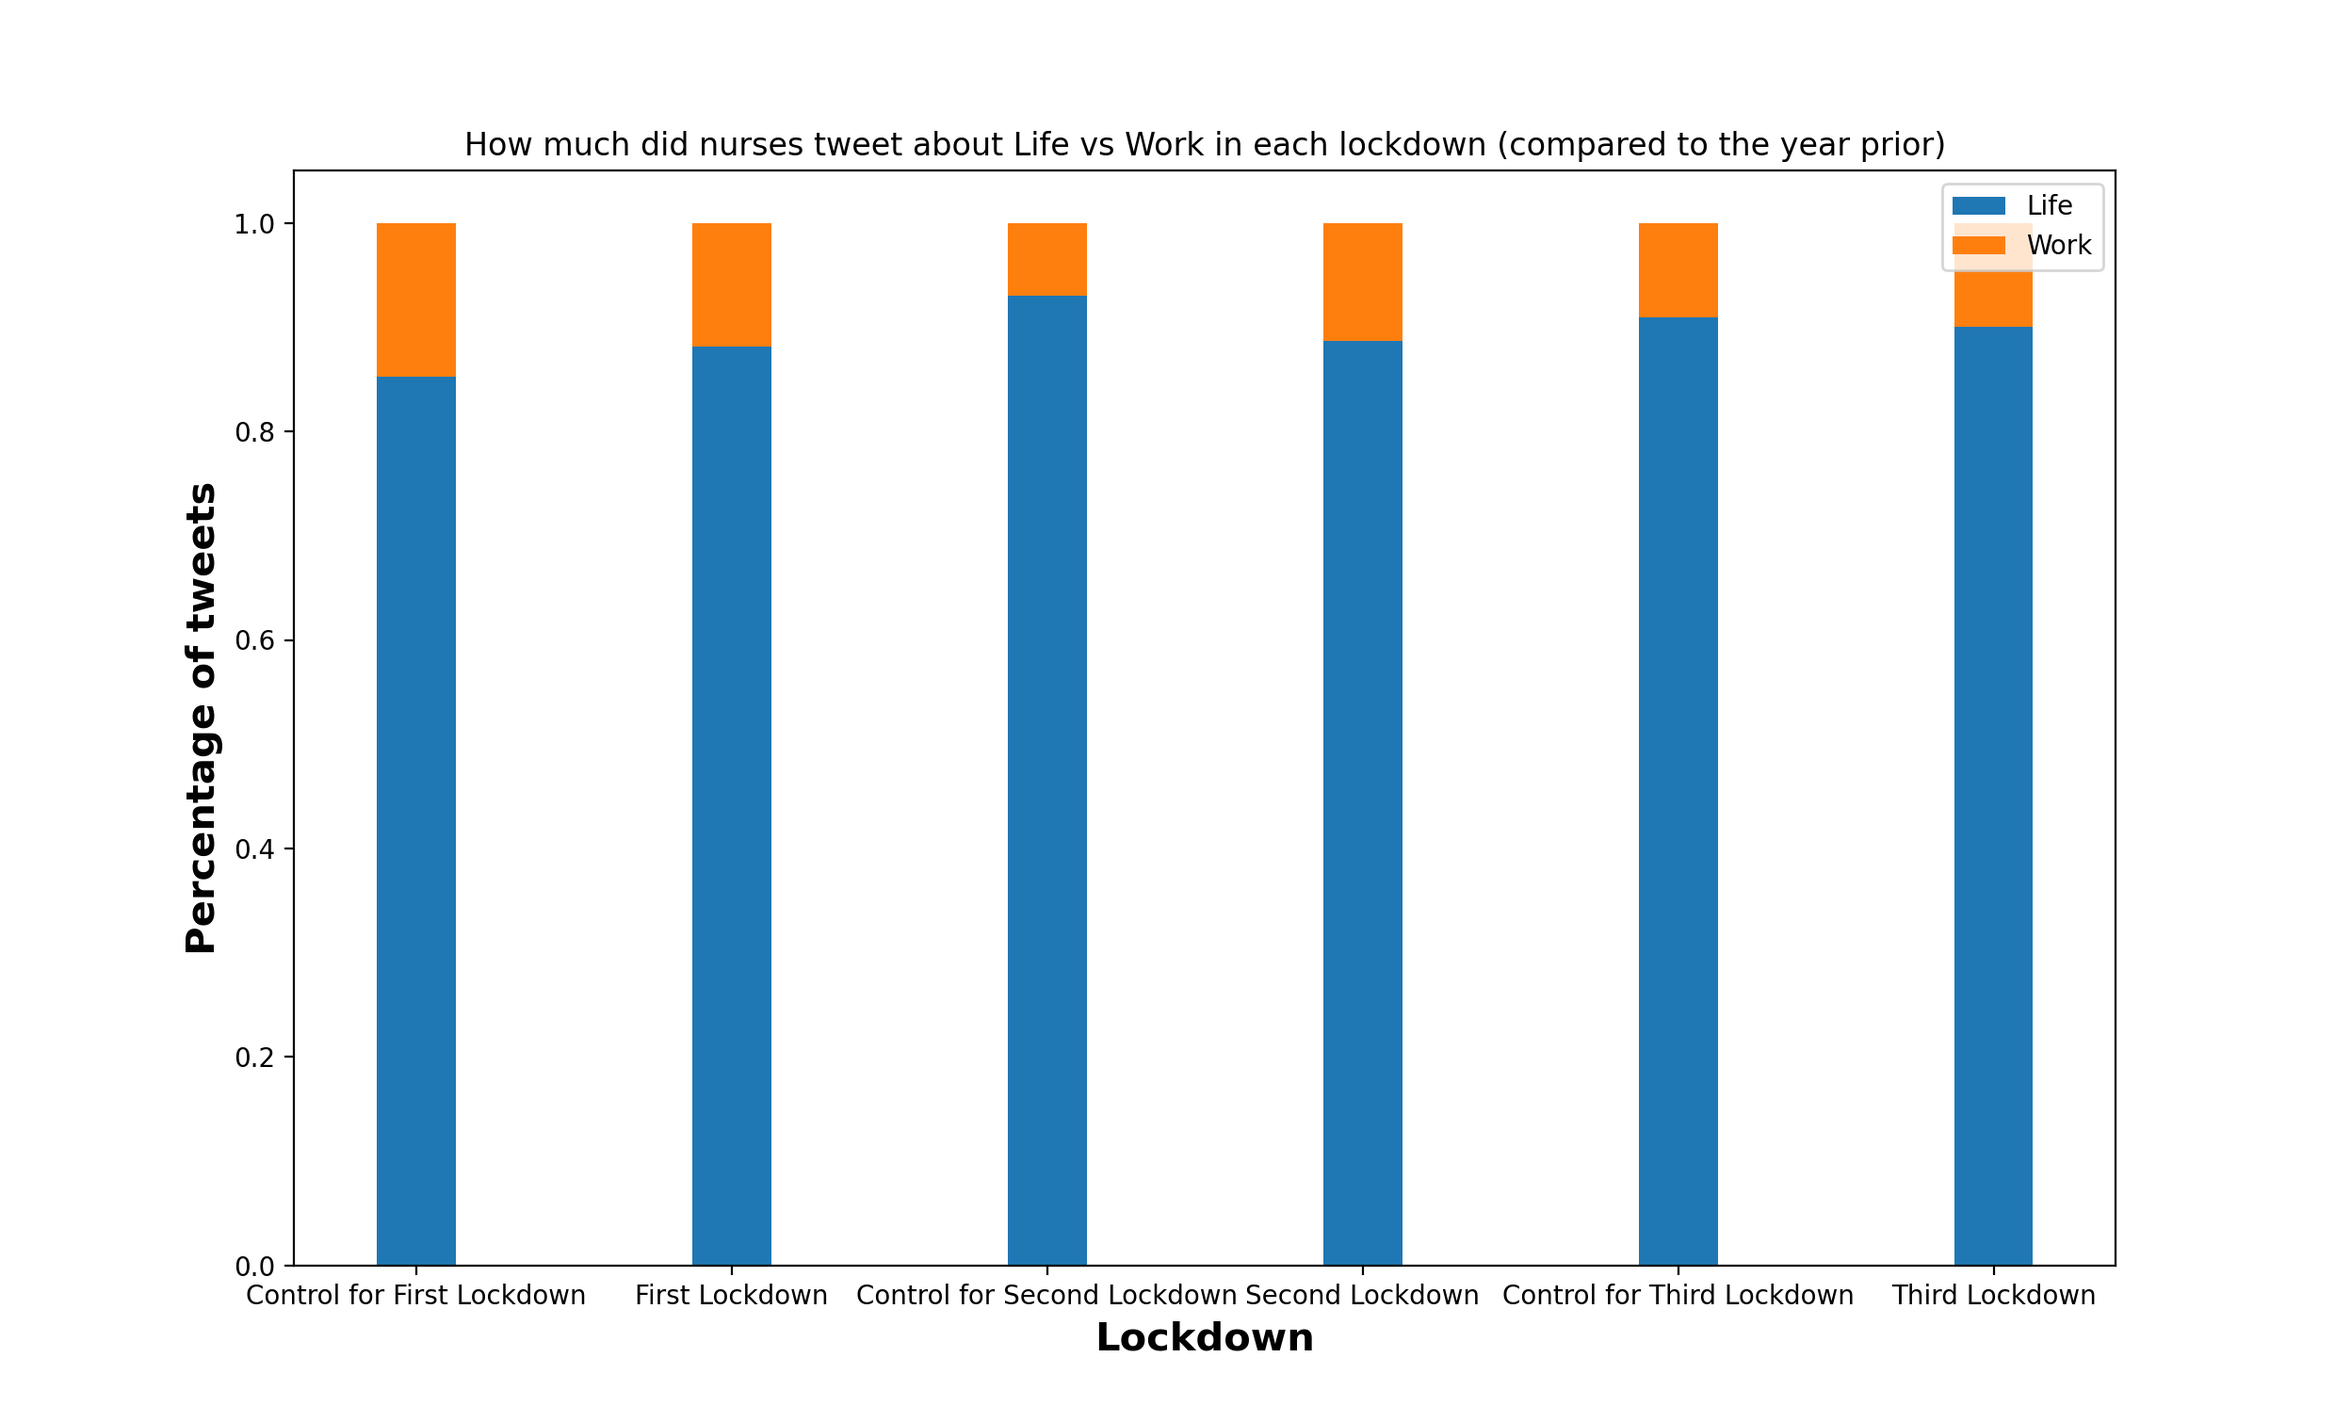
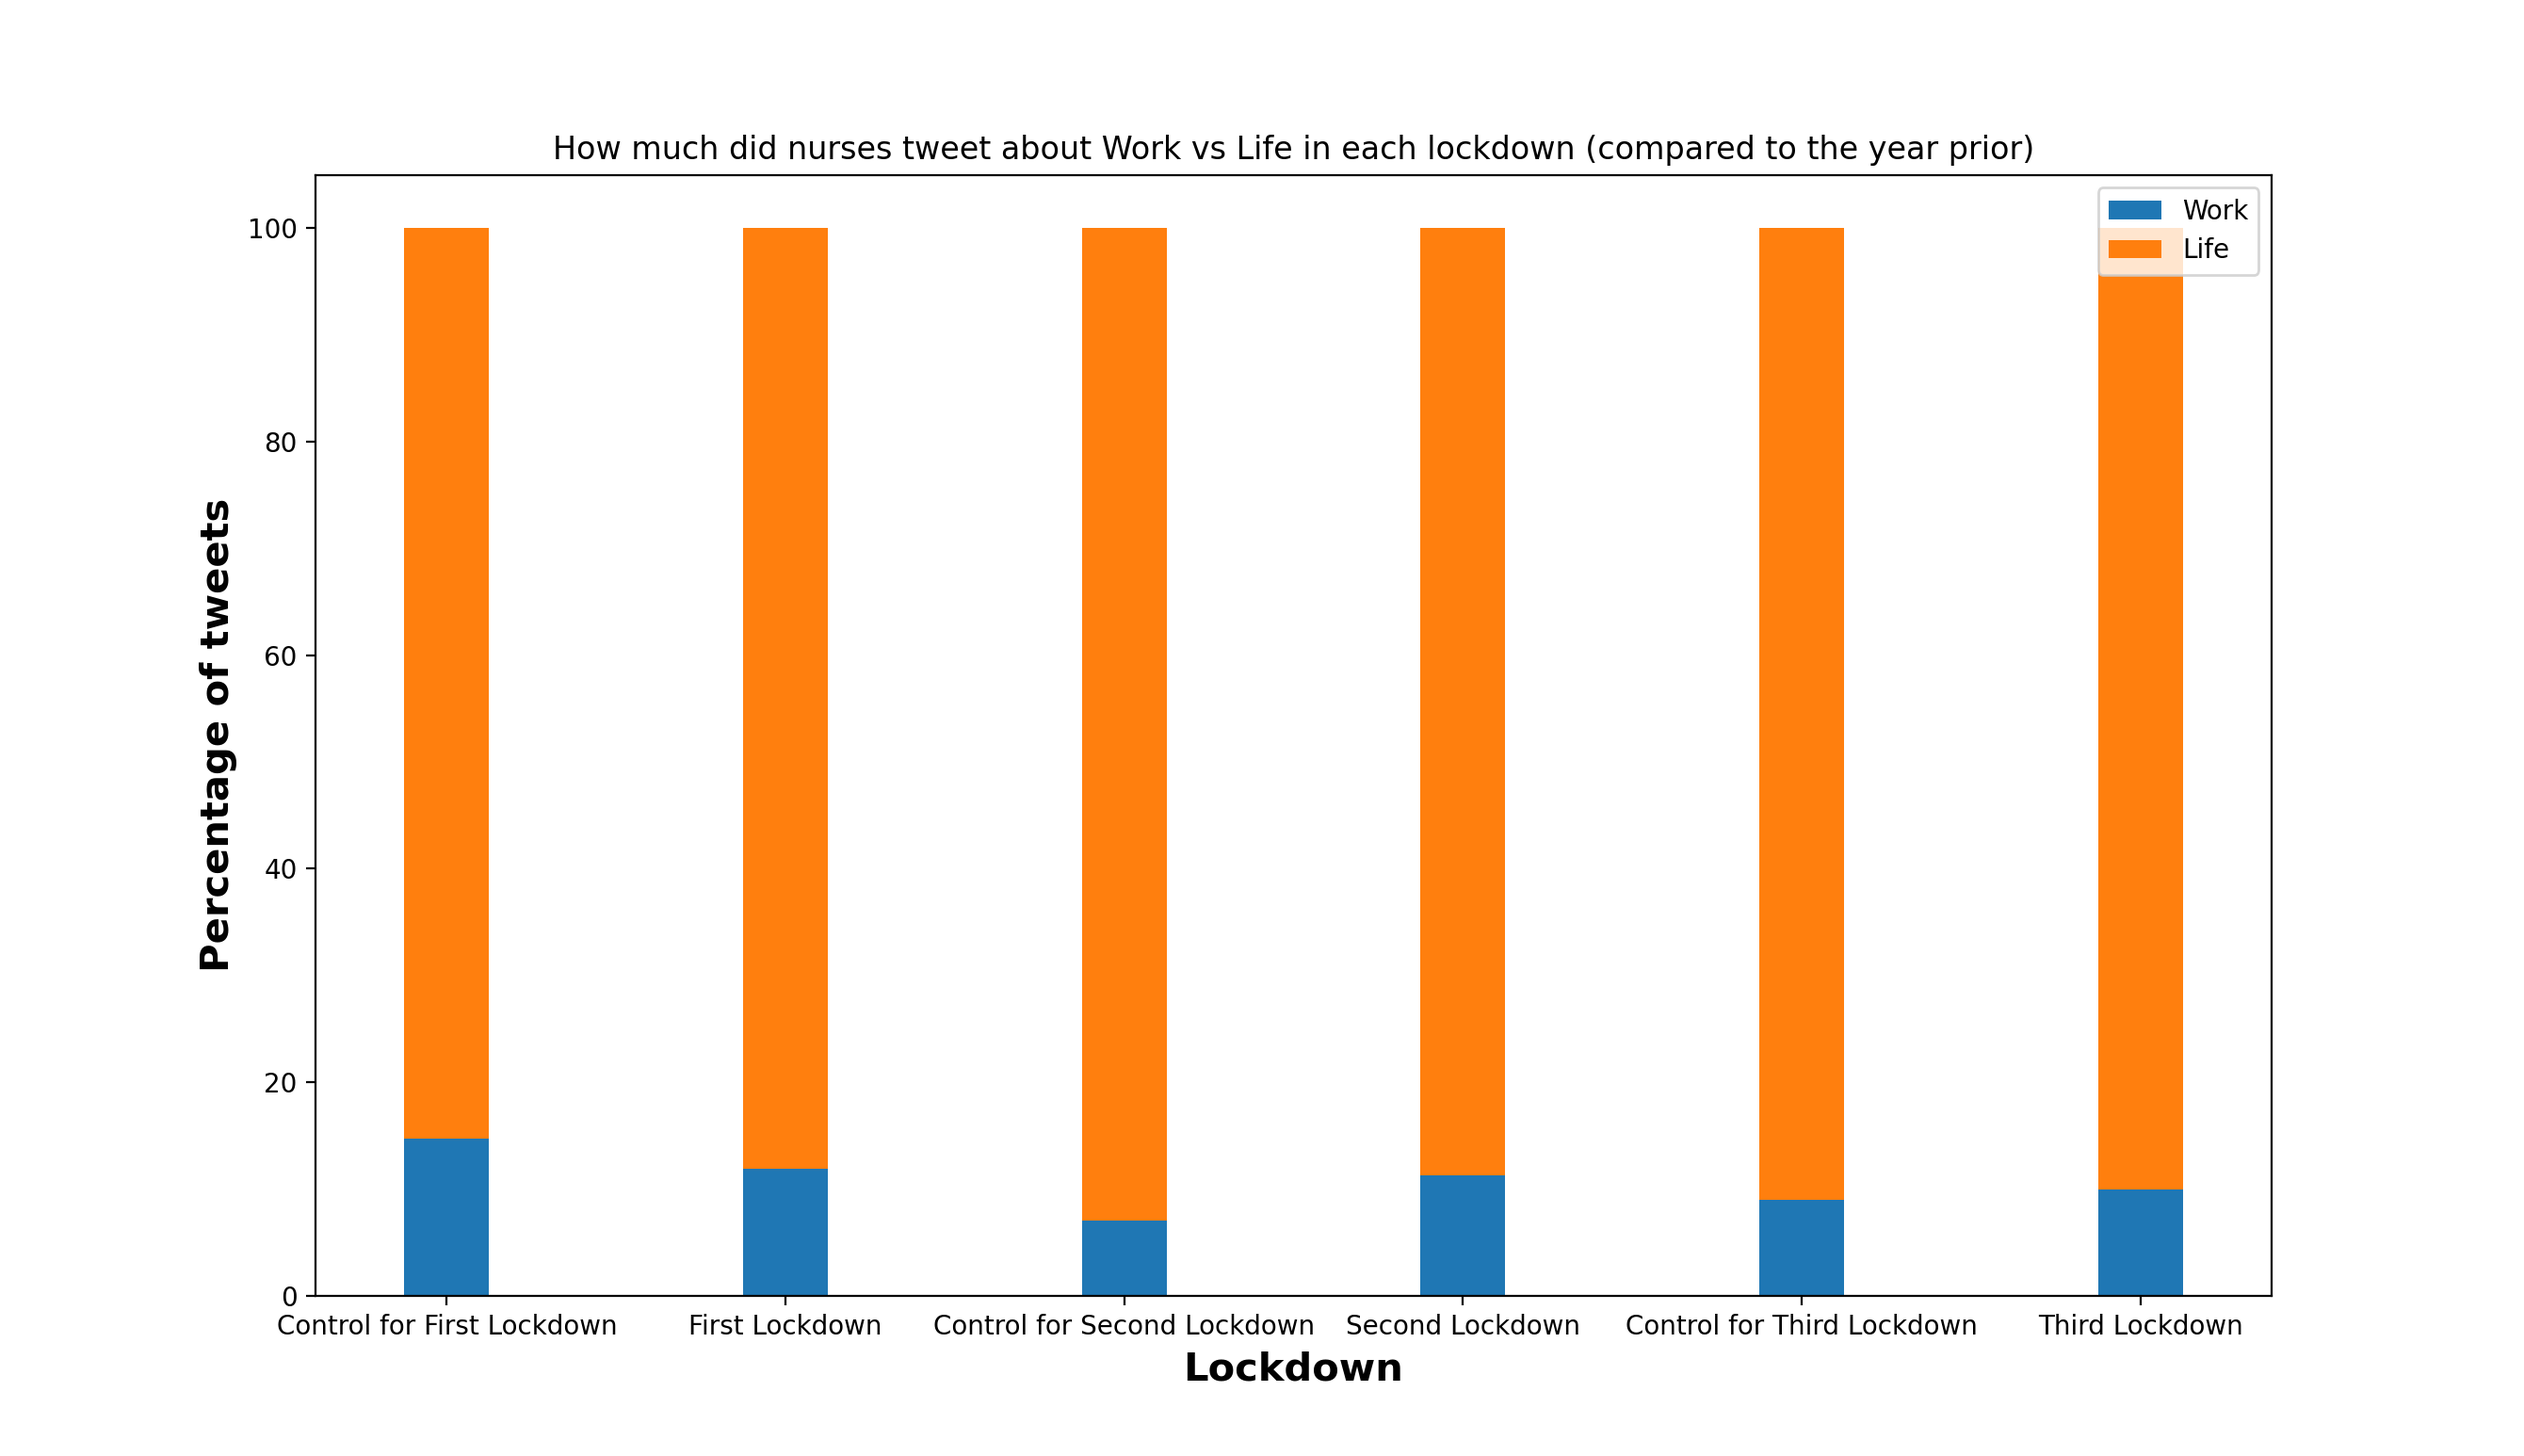
deleting unupdated graphs

diff --git a/graphs/comparing_lockdowns.py b/graphs/comparing_lockdowns.py
@@ -214,6 +214,11 @@ def lockdown_Life_Work():
     values = { "Work": [control1[1], first_lockdown[1], control2[1], second_lockdown[1], control3[1], third_lockdown[1]],
         "Life": [control1[0], first_lockdown[0], control2[0], second_lockdown[0], control3[0], third_lockdown[0]]}
 
+    for i in range(0, len(values["Work"])):
+        values["Work"][i] = values["Work"][i] * 100
+    for j in range(0, len(values["Life"])):
+        values["Life"][j] = values["Life"][j] * 100
+
     # set width of bar
     barWidth = 0.25
 
@@ -235,7 +240,7 @@ def lockdown_Life_Work():
 
     plt.show()
 
-lockdown_Life_Work()
+# lockdown_Life_Work()
 
 def lockdown_Life_Work_None():
     # first lockdown
@@ -280,6 +285,12 @@ def lockdown_Life_Work_None():
               "Work": [control1[1], first_lockdown[1], control2[1], second_lockdown[1], control3[1], third_lockdown[1]],
                 "Life": [control1[0], first_lockdown[0], control2[0], second_lockdown[0], control3[0], third_lockdown[0]],
               "Neither": [control1[2], first_lockdown[2], control2[2], second_lockdown[2], control3[2], third_lockdown[2]]}
+    for i in range(0, len(values["Work"])):
+        values["Work"][i] = values["Work"][i] * 100
+    for j in range(0, len(values["Life"])):
+        values["Life"][j] = values["Life"][j] * 100
+    for k in range(0, len(values["Neither"])):
+        values["Neither"][k] = values["Neither"][k] * 100
 
     # set width of bar
     barWidth = 0.25
@@ -302,7 +313,7 @@ def lockdown_Life_Work_None():
 
     plt.show()
 
-lockdown_Life_Work_None()
+# lockdown_Life_Work_None()
 
 def lockdown_topics_pie():
     categories = {0: "Good morning",
@@ -360,7 +371,7 @@ def lockdown_topics_bar():
     fl_counts_df = first_lockdown_df['Topic'].value_counts()
     first_lockdown=[]
     for i in [0,4,6,8,9]:
-        first_lockdown.append(fl_counts_df[i]/len(first_lockdown_df))
+        first_lockdown.append((fl_counts_df[i]/len(first_lockdown_df))*100)
     print("first", first_lockdown)
 
     #second lockdown
@@ -368,7 +379,7 @@ def lockdown_topics_bar():
     sl_counts_df = second_lockdown_df['Topic'].value_counts()
     second_lockdown=[]
     for i in [0,4,6,8,9]:
-        second_lockdown.append(sl_counts_df[i]/len(second_lockdown_df))
+        second_lockdown.append((sl_counts_df[i]/len(second_lockdown_df))*100)
     print("second", second_lockdown)
 
     #third lockdown
@@ -376,7 +387,7 @@ def lockdown_topics_bar():
     tl_counts_df = third_lockdown_df['Topic'].value_counts()
     third_lockdown=[]
     for i in [0,4,6,8,9]:
-        third_lockdown.append(tl_counts_df[i]/len(third_lockdown_df))
+        third_lockdown.append((tl_counts_df[i]/len(third_lockdown_df))*100)
     print("third", third_lockdown)
 
     # categories = ["0: Good morning",
@@ -413,11 +424,11 @@ def lockdown_topics_bar():
 
     # Adding Xticks
     plt.xlabel("Lockdown", fontweight ='bold', fontsize = 15)
-    plt.ylabel("Percentage of tweets on this topic", fontweight ='bold', fontsize = 15)
+    plt.ylabel("Percentage of tweets relating to this topic", fontweight ='bold', fontsize = 15)
     plt.xticks([r + barWidth for r in range(len(first_lockdown))],
                categories)
     plt.title("How much did nurses talk about each Home-life topic in each lockdown?")
     plt.legend()
     plt.show()
 
-# lockdown_topics_bar()
+lockdown_topics_bar()
